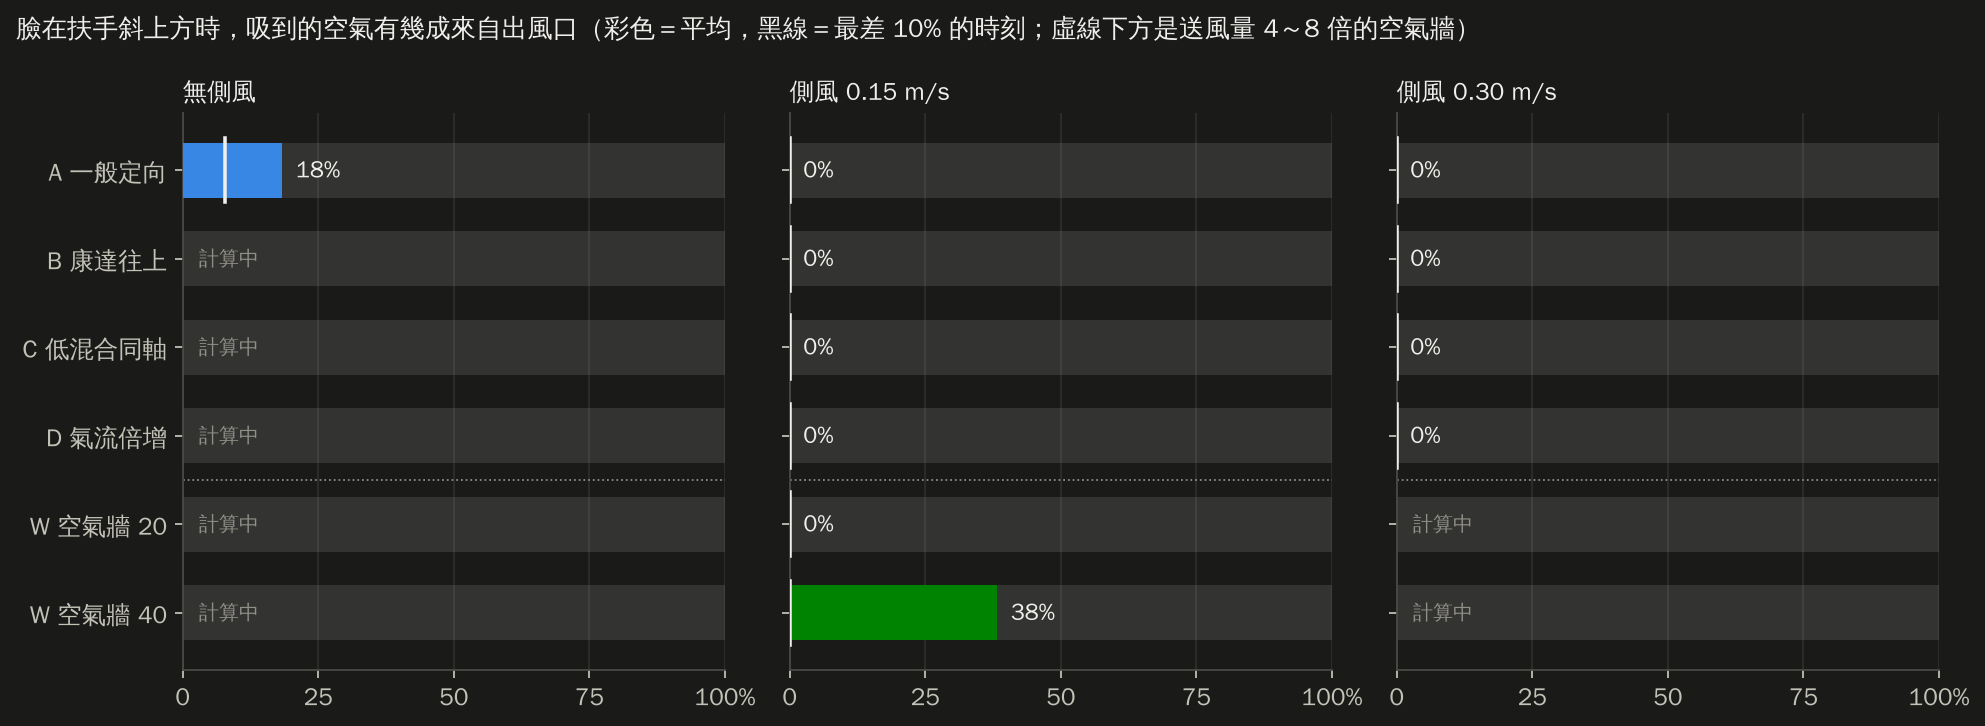
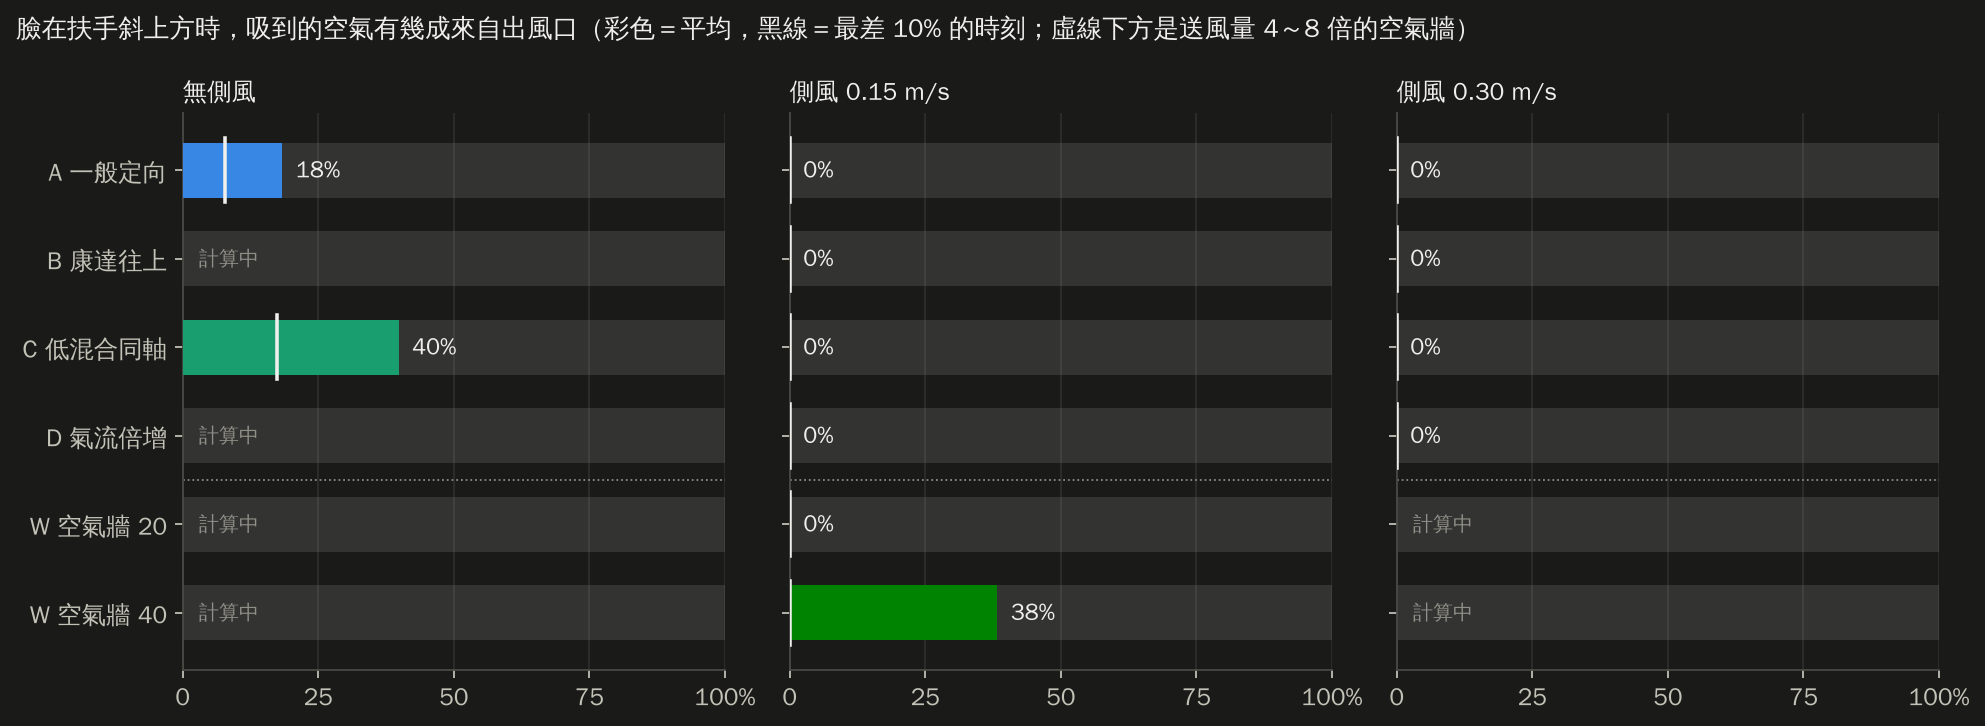
Face-above: 12/18 results (C no crossflow, 24 s)
Claude-Session: https://claude.ai/code/session_01CLMVR9XzZXdsSKCMSLUbBG

Changed region(s): [[0.0937, 0.4242, 0.2499, 0.5152]]

diff --git a/stairwell-airflow-sim/report/index.html b/stairwell-airflow-sim/report/index.html
@@ -173,7 +173,7 @@ footer { margin-top: 48px; padding-top: 20px; border-top: 1px solid var(--line);
   <h1>扶手送風模擬報告</h1>
   <p class="question">一根貫穿整棟樓的扶手，平時能不能流通、淨化空氣？火災時能幫逃生者做到什麼？用電腦模擬一項一項檢查。</p>
   <div class="meta"><span>日期 <b>2026-10-19</b></span><span>專案 <b>長庚大學工業設計學系 林煜宸</b></span><span>模擬與撰寫 <b>Claude（AI）</b></span></div>
-  <div class="progress" role="status"><p>臉在斜上方的出風口重算：已完成 11/18 組，整體約 58%，預計台灣時間 <b>23:58</b> 前後完成</p><div class="bar" aria-hidden="true"><span style="width:57.8%"></span></div><div class="chips"><span class="chip chip-run"><b>B 康達往上</b>・無側風　27%</span><span class="chip chip-done"><b>B 康達往上</b>・側風 0.15　完成</span><span class="chip chip-done"><b>B 康達往上</b>・側風 0.30　完成</span><span class="chip chip-done"><b>A 一般</b>・側風 0.30　完成</span><span class="chip chip-done"><b>C 低混合</b>・側風 0.30　完成</span><span class="chip chip-done"><b>D 倍增</b>・側風 0.30　完成</span><span class="chip chip-done"><b>A 一般</b>・無側風　完成</span><span class="chip chip-done"><b>A 一般</b>・側風 0.15　完成</span><span class="chip chip-run"><b>D 倍增</b>・無側風　12%</span><span class="chip chip-done"><b>D 倍增</b>・側風 0.15　完成</span><span class="chip chip-done"><b>C 低混合</b>・側風 0.15　完成</span><span class="chip chip-run"><b>C 低混合</b>・無側風　0%</span><span class="chip chip-done"><b>W 空氣牆 40</b>・側風 0.15　完成</span><span class="chip chip-done"><b>W 空氣牆 20</b>・側風 0.15　完成</span><span class="chip chip-run"><b>W 空氣牆 40</b>・側風 0.30　44%</span><span class="chip chip-wait"><b>W 空氣牆 20</b>・側風 0.30　排隊中</span><span class="chip chip-wait"><b>W 空氣牆 40</b>・無側風　排隊中</span><span class="chip chip-wait"><b>W 空氣牆 20</b>・無側風　排隊中</span></div><p class="muted small">進度在每次更新報告時重新計算（最後更新：台灣時間 10/19 23:04）。</p></div>
+  <div class="progress" role="status"><p>臉在斜上方的出風口重算：已完成 12/18 組，整體約 70%，預計台灣時間 <b>23:56</b> 前後完成</p><div class="bar" aria-hidden="true"><span style="width:69.8%"></span></div><div class="chips"><span class="chip chip-run"><b>B 康達往上</b>・無側風　48%</span><span class="chip chip-done"><b>B 康達往上</b>・側風 0.15　完成</span><span class="chip chip-done"><b>B 康達往上</b>・側風 0.30　完成</span><span class="chip chip-done"><b>A 一般</b>・側風 0.30　完成</span><span class="chip chip-done"><b>C 低混合</b>・側風 0.30　完成</span><span class="chip chip-done"><b>D 倍增</b>・側風 0.30　完成</span><span class="chip chip-done"><b>A 一般</b>・無側風　完成</span><span class="chip chip-done"><b>A 一般</b>・側風 0.15　完成</span><span class="chip chip-run"><b>D 倍增</b>・無側風　52%</span><span class="chip chip-done"><b>D 倍增</b>・側風 0.15　完成</span><span class="chip chip-done"><b>C 低混合</b>・側風 0.15　完成</span><span class="chip chip-done"><b>C 低混合</b>・無側風　完成</span><span class="chip chip-done"><b>W 空氣牆 40</b>・側風 0.15　完成</span><span class="chip chip-done"><b>W 空氣牆 20</b>・側風 0.15　完成</span><span class="chip chip-run"><b>W 空氣牆 40</b>・側風 0.30　96%</span><span class="chip chip-run"><b>W 空氣牆 20</b>・側風 0.30　0%</span><span class="chip chip-wait"><b>W 空氣牆 40</b>・無側風　排隊中</span><span class="chip chip-wait"><b>W 空氣牆 20</b>・無側風　排隊中</span></div><p class="muted small">進度在每次更新報告時重新計算（最後更新：台灣時間 10/19 23:16）。</p></div>
 </header>
 <nav class="toc" aria-label="章節">
   <a href="#summary">一頁看懂</a><a href="#method">怎麼測的</a><a href="#daily">平時：新風帶</a><a href="#fire">火災：守護路線</a>
@@ -445,16 +445,16 @@ footer { margin-top: 48px; padding-top: 20px; border-top: 1px solid var(--line);
 
 <section id="nozzle">
   <h2><span class="no">04</span>四種出風口比一比（臉在扶手斜上方）</h2>
-  <p class="oneliner">臉在扶手斜上方時（已完成 11/18 組），目前口鼻乾淨空氣最高的是 W 空氣牆 40 L/s/m（側風 0.15）：38%。</p>
+  <p class="oneliner">臉在扶手斜上方時（已完成 12/18 組），目前口鼻乾淨空氣最高的是 C 低混合同軸（無側風）：40%。</p>
   <figure class="fig render"><img class="img-any" src="assets/render_nozzles.webp" alt="四種扶手側面出風口形式比較" loading="lazy"><figcaption>四種出風口的造型構想（設計渲染圖）。圖中文字是設計構想，實際結果以下方模擬為準。</figcaption></figure>
   <figure class="fig"><img class="img-light" src="assets/s2f_saf_bars.png" alt="臉在斜上方時四種出風口的乾淨空氣比例" loading="lazy"><img class="img-dark" src="assets/s2f_saf_bars_dark.png" alt="臉在斜上方時四種出風口的乾淨空氣比例" loading="lazy"><figcaption>每條橫條代表 100% 的吸入空氣，彩色部分是來自出風口的乾淨空氣。黑色短線是最差 10% 的時刻。</figcaption></figure>
   <div class="points prose">
 <p><b>為什麼重算：</b>人扶著內側扶手下樓時，臉在扶手的<b>斜上方</b>，不是正前方。這組把口鼻放在出風口往樓梯側 28 cm、往上 35 cm（距離約 45 cm、仰角約 51°）；A、C、D 出風口改成朝向口鼻，B 改用藏在底面、往上轉的康達出風口。每公尺送風量都是 5 L/s，網格 1.5 mm。<span class="tag tag-sim">模擬結果</span></p>
-<div class="table-wrap"><table><thead><tr><th scope="col">出風口</th><th scope="col">無側風</th><th scope="col">側風 0.15</th><th scope="col">側風 0.30</th></tr></thead><tbody><tr><th scope="row">A 一般定向</th><td class="num">18%</td><td class="num">0%</td><td class="num">0%</td></tr><tr><th scope="row">B 康達往上</th><td class="num">計算中</td><td class="num">0%</td><td class="num">0%</td></tr><tr><th scope="row">C 低混合同軸</th><td class="num">計算中</td><td class="num">0%</td><td class="num">0%</td></tr><tr><th scope="row">D 氣流倍增</th><td class="num">計算中</td><td class="num">0%</td><td class="num">0%</td></tr><tr><th scope="row">W 空氣牆 20 L/s/m</th><td class="num">計算中</td><td class="num">0%</td><td class="num">計算中</td></tr><tr><th scope="row">W 空氣牆 40 L/s/m</th><td class="num">計算中</td><td class="num">38%</td><td class="num">計算中</td></tr></tbody></table></div>
+<div class="table-wrap"><table><thead><tr><th scope="col">出風口</th><th scope="col">無側風</th><th scope="col">側風 0.15</th><th scope="col">側風 0.30</th></tr></thead><tbody><tr><th scope="row">A 一般定向</th><td class="num">18%</td><td class="num">0%</td><td class="num">0%</td></tr><tr><th scope="row">B 康達往上</th><td class="num">計算中</td><td class="num">0%</td><td class="num">0%</td></tr><tr><th scope="row">C 低混合同軸</th><td class="num">40%</td><td class="num">0%</td><td class="num">0%</td></tr><tr><th scope="row">D 氣流倍增</th><td class="num">計算中</td><td class="num">0%</td><td class="num">0%</td></tr><tr><th scope="row">W 空氣牆 20 L/s/m</th><td class="num">計算中</td><td class="num">0%</td><td class="num">計算中</td></tr><tr><th scope="row">W 空氣牆 40 L/s/m</th><td class="num">計算中</td><td class="num">38%</td><td class="num">計算中</td></tr></tbody></table></div>
 <p><b>目前看到的現象（8 組有側風的結果）：</b>有側風時，出風口吹出的乾淨空氣一離開扶手，就被由下往上的氣流帶著<b>貼著扶手正上方往上走</b>，到不了往樓梯側 28 cm 外的臉，口鼻都是 0%。B 康達往上確實有沿圓角轉向上（下面的圖看得到深藍色貼著導風腔轉彎），但轉上去之後一樣直直往上，沒有往臉的方向偏。<span class="tag tag-sim">模擬結果</span></p>
 <p><b>加算空氣牆：</b>先算完的幾組顯示，每公尺 5 L/s 的出風口在有側風時送不到斜上方的臉。所以把第 05 章表現最好的空氣牆（寬 80 mm、每公尺 20 或 40 L/s、水平往樓梯側吹）也放進同一個「臉在斜上方＋有頭」的測試，共 6 組，表格最後兩列。<span class="tag tag-sim">模擬結果</span></p>
 <p><b>無側風要算久一點：</b>沒有側風時氣流很慢，乾淨空氣要好幾秒才飄到臉旁。先算的 10 秒版本裡，B、C、D 的口鼻數值還在一路往上爬（B 從 0% 爬到 12%、C 從 15% 爬到 46%、D 從 0% 爬到 36%），代表還沒穩定，所以無側風的 B、C、D 和空氣牆延長到 24 秒重算，取後 16 秒平均。A 的 10 秒版本前後半段差不多（19%／18%），已經穩定。<span class="tag tag-sim">模擬結果</span></p>
-<p class="muted">已完成 11/18 組，其餘計算中；每完成一批就會更新。</p></div>
+<p class="muted">已完成 12/18 組，其餘計算中；每完成一批就會更新。</p></div>
   <figure class="fig"><img class="img-light" src="assets/s2f_vc00_fields.png" alt="臉在斜上方、無側風" loading="lazy"><img class="img-dark" src="assets/s2f_vc00_fields_dark.png" alt="臉在斜上方、無側風" loading="lazy"><figcaption>無側風：紅圈是口鼻位置，顏色越深代表出風口的空氣越多。</figcaption></figure>
   <figure class="fig"><img class="img-light" src="assets/s2f_vc15_fields.png" alt="臉在斜上方、側風 0.15 m/s" loading="lazy"><img class="img-dark" src="assets/s2f_vc15_fields_dark.png" alt="臉在斜上方、側風 0.15 m/s" loading="lazy"><figcaption>側風 0.15 m/s（由下往上）。</figcaption></figure>
   <figure class="fig"><video src="assets/s2f_vc15.mp4" controls muted loop playsinline preload="metadata"></video><figcaption>動畫（臉在斜上方、側風 0.15 m/s）。每格 0.08 秒。</figcaption></figure>
